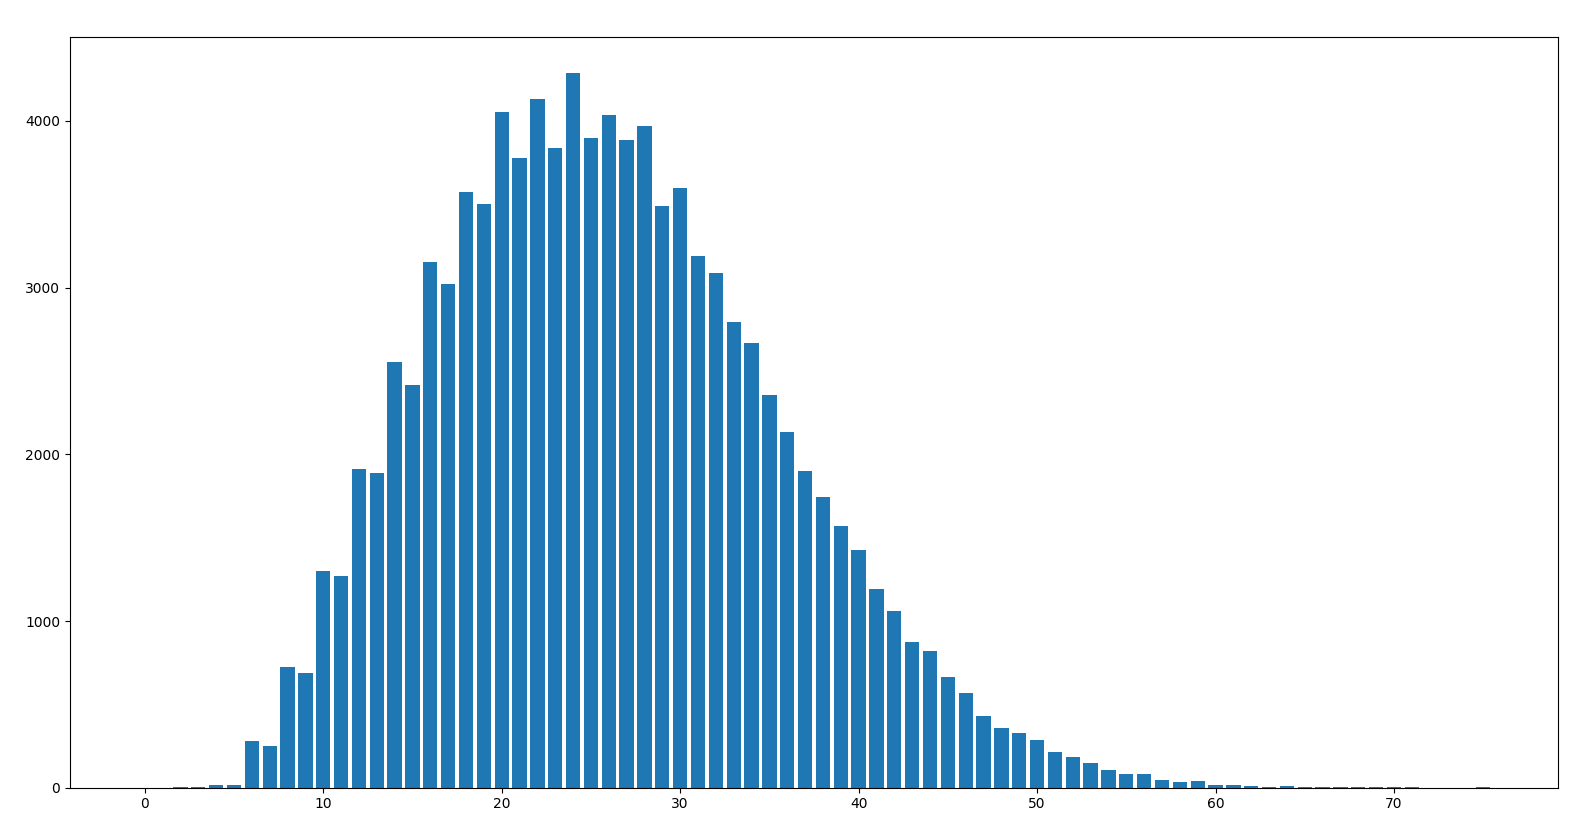
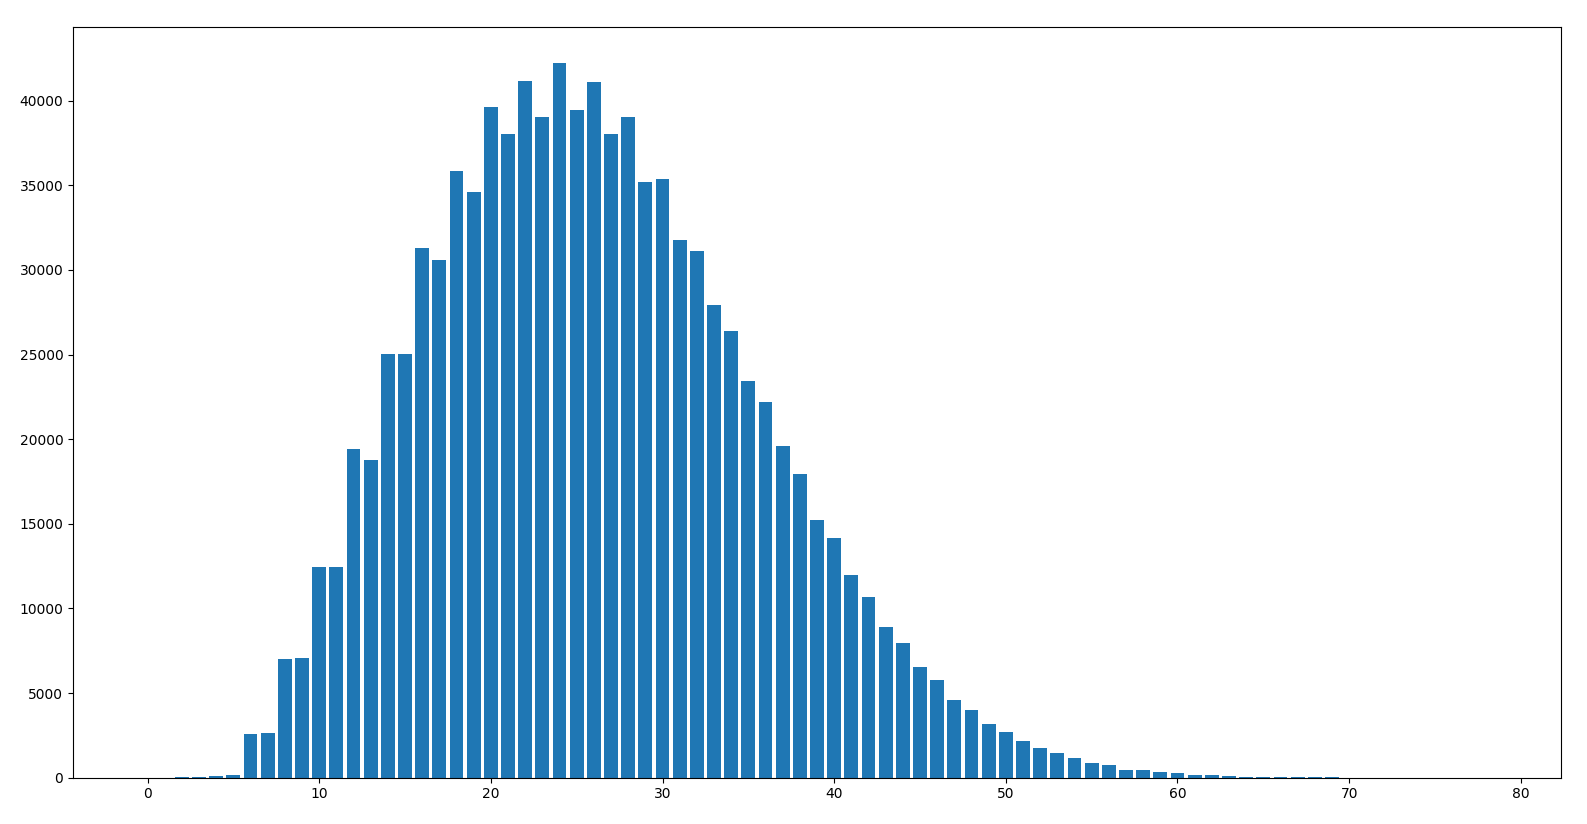
Add new data

diff --git a/get_data.py b/get_data.py
@@ -97,7 +97,7 @@ def Game(): # Play one game at a time
     return length - 2
 
 def Main():
-    numOfGames = 100000
+    numOfGames = 1000000
     games = RunGames(numOfGames)
     average, distribution = ProcessGames(games)
     SaveResults(numOfGames, average, distribution, "data/simple_bot/results.txt")
